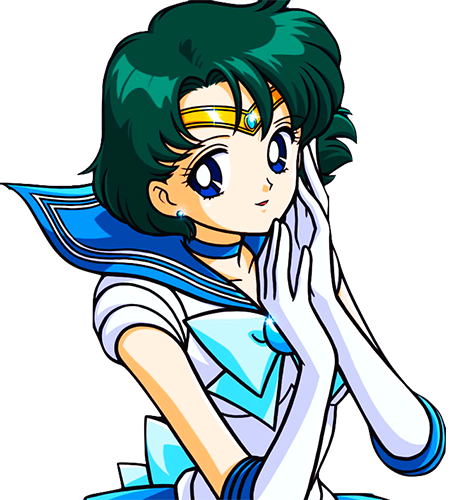
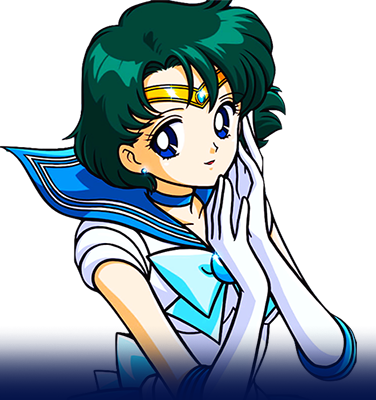
fix css

diff --git a/css/style.css b/css/style.css
@@ -204,9 +204,6 @@ body #commands #commandTable tr #spacing{
     text-align: center;}
 #footerDragon table tr td a{
     text-decoration: none;}
-<<<<<<< HEAD
-/*Sailor Moon*/
-=======
 
 /*Sailor Moon*/
 #container #sailorMoonChars{
@@ -241,7 +238,7 @@ body #commands #commandTable tr #spacing{
 #container #sailorMoonChars ul #SailorMercury:hover {
     background-color: darkcyan;
     border-radius: 50%;}
-#container #Bienvenida #p1smoon, #p2smoon, #p3smoon,#p4smoon, #p5smoon,{
+#container #Bienvenida #p1smoon, #p2smoon, #p3smoon,#p4smoon, #p5smoon{
     margin-left:230px;
     font-size: 20px;
     font-family: 'Trebuchet MS', 'Lucida Sans Unicode', 'Lucida Grande', 'Lucida Sans', Arial, sans-serif;
@@ -252,4 +249,3 @@ body #commands #commandTable tr #spacing{
     background-color: darkblue;
     border: 3px solid white;
     border-radius: 4%;}
->>>>>>> 9995d22b2f628f6ae59f53433fd9e418426d3831

diff --git a/html/SailorMoon.html b/html/SailorMoon.html
@@ -66,8 +66,7 @@
                     Sailor Jupiter y Sailor Venus una de las cuatro protectoras de Serenity, la Princesa de la Luna, desde los tiempos en 
                     que exist&iacute;a en la Luna un antiguo reino llamado el Milenio de Plata.
                 </p>
-                <a style="position: absolute;"><img width="470px" height="500px" src="../resources/Imagenes/SailorMoon/SailorMercury1.png" /></a>
-
+                <a style="position: absolute; margin-top:-50px; margin-left: -55%;"><img width="376px" height="400px" src="../resources/Imagenes/SailorMoon/SailorMercury1.png" /></a>
 
             </div>
         </div>
